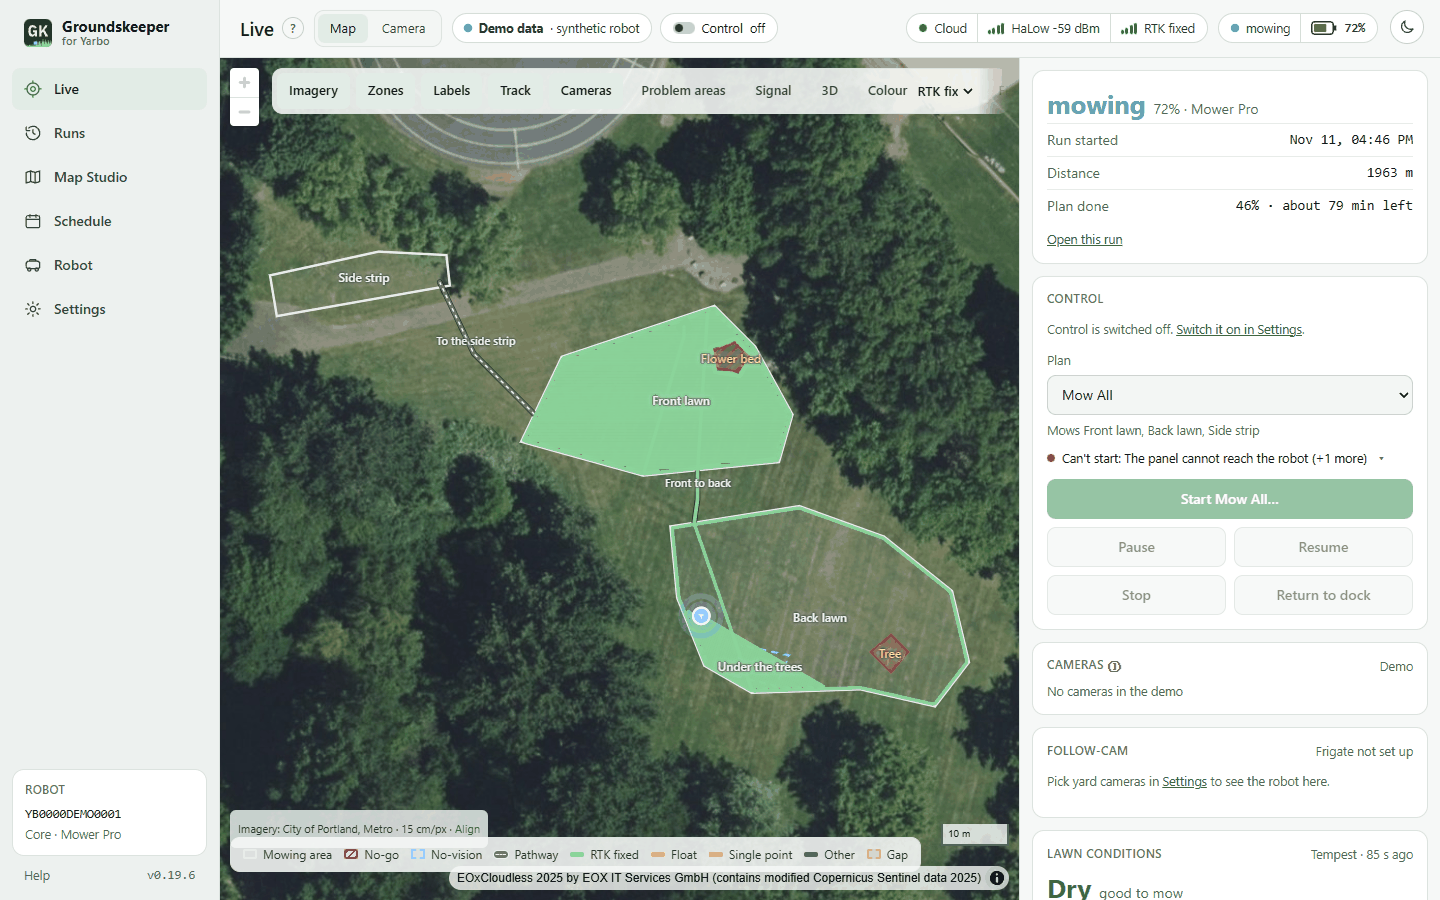
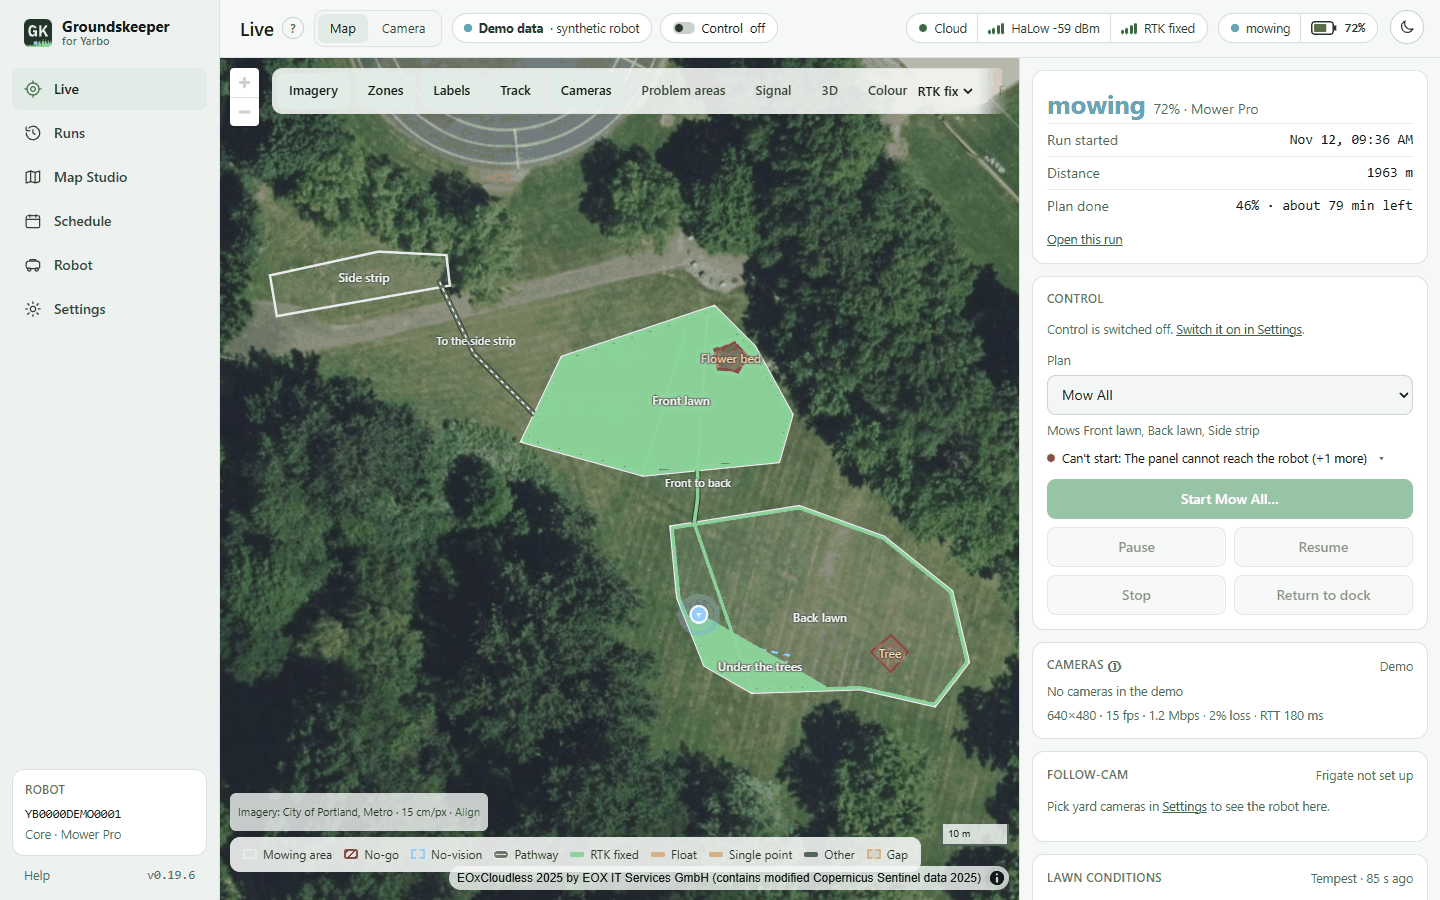
Cameras: a video stats line under the tile, read in the browser (#142)
One line under the Cameras tile's video, refreshed every 2 seconds while it
plays, for example "640×480 · 15 fps · 1.2 Mbps · 2% loss · RTT 180 ms". It
comes from the Agora SDK's own local counters (getRemoteVideoStats,
getRemoteNetworkQuality, getRTCStats); nothing is sent anywhere and no id,
token or channel name can get into it.

It says "weak link" (5% or more loss, frozen 10% of the time, or the SDK rates
the robot's upload poor) or "slow to draw" (frames arrive but this browser
shows far fewer), so a weak robot uplink can be told from a slow browser. The
demo shows a made-up line. The timer stops on every way the tile stops.

diff --git a/web/cameras.js b/web/cameras.js
@@ -34,12 +34,20 @@ const CAM_ROBOT_UID = 1;                           // the robot publishes as uid
 const CAM_SLOW_MS = 15000;                         // joined but no video yet: say why it may be
 const CAM_SETTINGS_MS = 20000;                     // how long a read of the video setting is trusted
 const CAM_SDK_TIMEOUT_MS = 20000;                  // a script load that hangs gives up, so the next try loads again
+const CAM_STATS_MS = 2000;                         // how often the stats line under the video is refreshed
 const CAM_BEAT_MS = 4000;                          // the official app keeps the robot awake about this often while open
 const CAM_JOIN_TIMEOUT_MS = 30000;                 // a join that never settles gives up, so the swap cannot linger
 // After leaving a channel the tile was watching, wait this long before camera-on and the next join: the robot stops
 // its video a moment after the last viewer leaves, and a camera-on sent straight away was lost to that (a camera
 // change then waited for video for good; with 3 s it played within seconds).
 const CAM_REJOIN_GAP_MS = 3000;
+// "Weak link" thresholds, on the SDK's own numbers (4.24.9): packetLossRate and freezeRate are ratios 0..1, and the
+// network quality is 0 (unknown) to 6 (down), where 4 is "poor". getRemoteNetworkQuality()[uid] describes that remote
+// user's own connection, so for the robot its uplink is the video's source link; its downlink is irrelevant to viewing.
+const CAM_WEAK_LOSS = 0.05;                        // 5% of the robot's packets lost
+const CAM_WEAK_FREEZE = 0.1;                       // frozen for 10% of the time
+const CAM_WEAK_QUALITY = 4;                        // the robot's uplink network quality "poor" or worse
+const CAM_SLOW_DRAW = 0.7;                         // drawn frames under 70% of received ones: the browser, not the link
 const CAM_CONTROL_OFF_HINT = "Control is off.";                // short on screen; CAM_HELP says the rest
 const CAM_ENDED = "Stopped. Open to watch again.";             // the panel's time limit, or the robot went offline
 // STOPGAP (AgoraIO/agora-rtc-web#15). The Web SDK wraps the stream's secret with a built-in 1024-bit RSA key, which
@@ -60,7 +68,8 @@ const CAM_SDK_OFF = [
 ];
 
 const cams = { open: false, camera: savedCamera(), phase: "closed", message: "", hint: "", client: null, ticket: 0,
-               slowTimer: null, beatTimer: null, controlOff: false, leaving: Promise.resolve(), settings: null,
+               slowTimer: null, beatTimer: null, statsTimer: null, stats: "", statsWeak: false, statsEl: null,
+               controlOff: false, leaving: Promise.resolve(), settings: null,
                settingsAt: 0, card: null, stage: null, sdk: null, subscribed: 0, leftAt: 0 };
 
 // The hints on screen are short; what each one means is its tooltip (and docs/user/live.md).
@@ -104,6 +113,10 @@ async function camerasCard(s) {
   if (!cams.card) {
     cams.stage = h("div", { class: "camsstage", role: "img", "aria-label": "Live view from the robot's camera" });
     cams.card = h("div", { class: "card camscard" });
+    cams.statsEl = h("p", { class: "small muted camstats", style: "margin:6px 0 0",
+      title: "Measured in this browser from the video library's own counters. Nothing is sent anywhere." });
+    const demo = CAM_DEMO_STATS;
+    camerasStatsShow(cams.demo ? camerasStatsLine(demo.video, demo.rtc, demo.quality) : { text: "", weak: false });
   }
   camerasDraw();
   return cams.card;
@@ -123,9 +136,10 @@ function camerasDraw() {
           "through Yarbo's cloud and Agora's network, one at a time, and only while this is open." }, "ⓘ")),
       cams.demo ? h("span", { class: "small muted" }, "Demo")
                 : h("span", { class: "small", style: `color:${colour}` }, dot(colour), " ", label)),
-    cams.demo ? h("p", { class: "muted small", style: "margin:6px 0 0",
-                         title: "The demo robot has no cameras. A real robot shows its video here." },
-                  "No cameras in the demo")
+    cams.demo ? [h("p", { class: "muted small", style: "margin:6px 0 0",
+                          title: "The demo robot has no cameras. A real robot shows its video here." },
+                   "No cameras in the demo"),
+                 cams.statsEl]
     : cams.open ? [
       h("div", { class: "camchips", role: "group", "aria-label": "Robot camera" },
         CAM_CHOICES.map(([k, name]) => h("button", { type: "button", class: `btn slim${cams.camera === k ? " on" : ""}`,
@@ -134,6 +148,7 @@ function camerasDraw() {
         h("button", { type: "button", class: "btn slim", title: "Stop the video and leave the channel",
           onclick: () => camerasStop() }, "Close")),
       cams.stage,
+      cams.statsEl,
       cams.message ? h("p", { class: "small", style: `margin:6px 0 0;color:${colour}`, role: "status" },
                        cams.message) : null,
       cams.hint ? h("p", { class: "muted small", style: "margin:4px 0 0", title: CAM_HELP[cams.hint] || null },
@@ -145,6 +160,70 @@ function camerasDraw() {
         h("button", { type: "button", class: "btn slim", onclick: () => camerasOpen(),
           title: "Switch the robot's cameras on and show one here. Needs Control on." }, "Open")),
       cams.message ? h("p", { class: "muted small", style: "margin:6px 0 0", role: "status" }, cams.message) : null]);
+}
+
+// Made-up numbers for the demo, which never loads the SDK: it shows what the line looks like on a real robot.
+const CAM_DEMO_STATS = { video: { receiveResolutionWidth: 640, receiveResolutionHeight: 480, renderFrameRate: 15,
+                                  receiveFrameRate: 15, receiveBitrate: 1234000, packetLossRate: 0.02, freezeRate: 0,
+                                  totalFreezeTime: 0, end2EndDelay: 0 },
+                         rtc: { RTT: 180 }, quality: { uplinkNetworkQuality: 2 } };
+
+// The line under the video, from the SDK's local counters (read by camerasStatsStart). Returns { text, weak }; text
+// is "" when there are no numbers yet. Only numbers are used: no ids, names, tokens or addresses can get in.
+function camerasStatsLine(video, rtc, quality) {
+  const num = (v) => (typeof v === "number" && Number.isFinite(v) ? v : 0);
+  const v = video || {};
+  const w = num(v.receiveResolutionWidth), ht = num(v.receiveResolutionHeight);
+  const bps = num(v.receiveBitrate), loss = num(v.packetLossRate);
+  const freezeRate = num(v.freezeRate), froze = num(v.totalFreezeTime);
+  const received = num(v.receiveFrameRate);
+  // A real 0 stays 0: a stalled renderer is not masked by the receive rate. Only a missing counter falls back.
+  const drawn = typeof v.renderFrameRate === "number" && Number.isFinite(v.renderFrameRate)
+    ? v.renderFrameRate : received;
+  const rtt = num(rtc && rtc.RTT), delay = num(v.end2EndDelay);
+  if (!w && !bps && !drawn) return { text: "", weak: false };      // nothing received yet
+  const weak = loss >= CAM_WEAK_LOSS || freezeRate >= CAM_WEAK_FREEZE
+    || num(quality && quality.uplinkNetworkQuality) >= CAM_WEAK_QUALITY;
+  const slow = !weak && received >= 5 && drawn < received * CAM_SLOW_DRAW;
+  const pct = loss * 100;
+  const parts = [
+    w && ht ? `${Math.round(w)}×${Math.round(ht)}` : "",
+    `${Math.round(drawn)} fps`,
+    bps >= 1e6 ? `${(bps / 1e6).toFixed(1)} Mbps` : `${Math.round(bps / 1e3)} kbps`,
+    pct > 0 && pct < 1 ? "<1% loss" : `${Math.round(pct)}% loss`,
+    rtt > 0 ? `RTT ${Math.round(rtt)} ms` : "",
+    delay > 0 ? `delay ${Math.round(delay)} ms` : "",
+    froze >= 1 ? `froze ${Math.round(froze)} s` : "",
+    // weak link: the robot's side or the network; slow to draw: this browser
+    weak ? "weak link" : slow ? "slow to draw" : ""];
+  return { text: parts.filter(Boolean).join(" · "), weak };
+}
+
+// Puts the line on the tile. It updates the one paragraph in place (no redraw), so the playing video is not touched.
+function camerasStatsShow({ text, weak }) {
+  cams.stats = text;
+  cams.statsWeak = weak;
+  if (!cams.statsEl) return;
+  cams.statsEl.textContent = text;
+  cams.statsEl.hidden = !text;
+  cams.statsEl.className = `small muted camstats${weak ? " weak" : ""}`;
+}
+
+const camerasStatsClear = () => camerasStatsShow({ text: "", weak: false });
+
+// Reads the SDK's local counters for the robot, every CAM_STATS_MS while its video plays. Nothing is sent anywhere. A
+// read that throws shows nothing and logs nothing.
+function camerasStatsStart(client, ticket) {
+  clearInterval(cams.statsTimer);
+  const read = () => {
+    if (ticket !== cams.ticket || !cams.open || cams.client !== client) return;
+    try {
+      const video = (client.getRemoteVideoStats() || {})[CAM_ROBOT_UID];
+      const quality = (client.getRemoteNetworkQuality() || {})[CAM_ROBOT_UID];
+      camerasStatsShow(camerasStatsLine(video, client.getRTCStats(), quality));
+    } catch { camerasStatsClear(); }
+  };
+  cams.statsTimer = setInterval(read, CAM_STATS_MS);
 }
 
 function camerasSet(phase, message, hint) {
@@ -180,6 +259,9 @@ function camerasLeave() {
   clearTimeout(cams.slowTimer);
   clearInterval(cams.beatTimer);                    // no more keep-awake beats, on every way of stopping
   cams.beatTimer = null;
+  clearInterval(cams.statsTimer);                   // and no more stats reads
+  cams.statsTimer = null;
+  camerasStatsClear();
   cams.controlOff = false;
   if (camSwapRemove) camSwapRemove();               // the secret swap lives as long as the client
   const client = cams.client;
@@ -524,6 +606,9 @@ function camerasListen(client, ticket) {
   client.on("user-unpublished", (user, mediaType) => {
     if (live() && Number(user.uid) === CAM_ROBOT_UID && mediaType === "video") {   // not the robot's audio stopping
       cams.subscribed = 0;                        // a later user-published subscribes again
+      clearInterval(cams.statsTimer);
+      cams.statsTimer = null;
+      camerasStatsClear();
       if (cams.stage) cams.stage.replaceChildren();
       camerasSet("waiting", "The robot stopped sending video.", "Cameras off, or asleep.");
     }
@@ -551,6 +636,7 @@ async function camerasPlay(client, user, mediaType, ticket) {
   if (ticket !== cams.ticket || !cams.open || !user.videoTrack) return;
   clearTimeout(cams.slowTimer);
   user.videoTrack.play(cams.stage, { fit: "contain" });
+  camerasStatsStart(client, ticket);
   camerasSet("playing", "");
 }
 

diff --git a/web/style.css b/web/style.css
@@ -282,6 +282,8 @@ a { color: var(--link); }
 .camchips { display: flex; flex-wrap: wrap; gap: 6px; }
 /* Live's Cameras tile: the robot's own cameras. The stage keeps a 16:9 box whatever the video does. */
 .camscard .camchips { margin-top: 8px; }
+.camstats { font-variant-numeric: tabular-nums; }
+.camstats.weak { color: var(--warn); }
 .camsstage {
   margin-top: 8px; aspect-ratio: 16 / 9; width: 100%; border-radius: 8px; overflow: hidden; background: var(--map-ink);
 }

diff --git a/tests/test_cameras_js.py b/tests/test_cameras_js.py
@@ -369,7 +369,8 @@ def test_when_the_panel_ends_the_window_the_tile_closes_says_so_and_beats_no_mor
 @needs_node
 def test_changing_camera_restarts_the_beats_without_a_second_timer():
     seg = segment(run_flow(), "beats-pick", beats=True)
-    assert [c[0] for c in seg if c[0] in BEAT_CALLS] == ["clear-interval", "interval", "beat"]
+    # the second clear is the stats timer (#142), playing before the pick
+    assert [c[0] for c in seg if c[0] in BEAT_CALLS] == ["clear-interval", "clear-interval", "interval", "beat"]
     assert ["beat", '{"start":true}'] in seg                                    # picking a camera is a press too
     assert ["intervals", 1] in seg
 
@@ -567,3 +568,84 @@ def test_the_tile_joins_as_host_but_never_publishes_anything():
                  "createCustomAudioTrack", "createCustomVideoTrack", "createBufferSourceAudioTrack", "getUserMedia"):
         assert call not in CODE, call
 
+
+# --- Video stats under the tile (#142): the SDK's own local counters, read here, sent nowhere. ---
+
+def stats_lines(calls):
+    return {c[1]: (c[2], c[3]) for c in calls if c[0] == "stats"}
+
+
+@needs_node
+def test_the_stats_line_formats_the_sdks_counters():
+    lines = stats_lines(run_flow())
+    assert lines["healthy"] == ("640×480 · 15 fps · 1.2 Mbps · 2% loss · RTT 180 ms", False)
+    assert lines["delay"][0].endswith("RTT 180 ms · delay 320 ms")
+    assert lines["kbps"][0] == "640×480 · 15 fps · 640 kbps · <1% loss · RTT 180 ms"
+    assert lines["no-rtt"][0] == "640×480 · 15 fps · 1.2 Mbps · 2% loss"
+
+
+@needs_node
+def test_a_weak_link_is_said_when_loss_freezes_or_the_quality_is_poor():
+    lines = stats_lines(run_flow())
+    assert lines["loss"] == ("640×480 · 15 fps · 1.2 Mbps · 8% loss · RTT 180 ms · weak link", True)
+    assert lines["freeze"] == (
+        "640×480 · 15 fps · 1.2 Mbps · 2% loss · RTT 180 ms · froze 6 s · weak link", True)
+    assert lines["quality"] == ("640×480 · 15 fps · 1.2 Mbps · 2% loss · RTT 180 ms · weak link", True)
+    # only the robot's uplink counts
+    assert lines["downlink-ignored"] == ("640×480 · 15 fps · 1.2 Mbps · 2% loss · RTT 180 ms", False)
+    # 0 means unknown, not poor
+    assert lines["quality-unknown"][1] is False and "weak" not in lines["quality-unknown"][0]
+
+
+@needs_node
+def test_a_slow_browser_is_told_apart_from_a_weak_link():
+    text, weak = stats_lines(run_flow())["slow-browser"]
+    assert text.endswith("slow to draw") and "weak link" not in text and weak is False
+    stalled = stats_lines(run_flow())["render-stalled"]
+    # a stalled renderer is not masked
+    assert stalled == ("640×480 · 0 fps · 1.2 Mbps · 2% loss · RTT 180 ms · slow to draw", False)
+    # no render counter: use the receive rate
+    assert stats_lines(run_flow())["render-missing"][0].startswith("640×480 · 12 fps")
+
+
+@needs_node
+def test_no_numbers_means_no_line_and_a_throwing_sdk_is_quiet():
+    calls = run_flow()
+    assert next(c for c in calls if c[0] == "stats-before") == ["stats-before", ""]
+    lines = stats_lines(calls)
+    for name in ("nothing-yet", "no-user", "bad-numbers", "throws"):
+        assert lines[name] == ("", False), name
+
+
+@needs_node
+def test_the_stats_line_never_carries_a_secret_channel_or_uid():
+    calls = run_flow()
+    assert next(c for c in calls if c[0] == "stats-line-secret-free")[1] is True
+    assert not re.search(r"console\.", CODE)
+
+
+@needs_node
+def test_the_stats_timer_stops_on_every_way_of_stopping():
+    stopped = [c for c in run_flow() if c[0] == "stats-stopped"]
+    assert [c[1] for c in stopped] == [
+        "close", "hidden", "pagehide", "leave-live", "connection-lost", "robot-stops-video"]
+    for _, name, shown, after, reads, timers in stopped:
+        assert shown.startswith("640×480") and after == "" and reads == 0, name
+        # robot-stops-video stays open: the keep-awake beat goes on
+        assert timers == (1 if name == "robot-stops-video" else 0), name
+
+
+@needs_node
+def test_changing_camera_clears_the_line_and_never_doubles_the_timer():
+    calls = run_flow()
+    # only the keep-awake beat is left
+    assert next(c for c in calls if c[0] == "stats-after-pick") == ["stats-after-pick", "", 1]
+    # beat + one stats timer
+    assert next(c for c in calls if c[0] == "stats-timers") == ["stats-timers", 2]
+
+
+def test_the_stats_source_reads_only_local_sdk_counters_every_two_seconds():
+    assert "CAM_STATS_MS = 2000" in CODE
+    for call in ("getRemoteVideoStats", "getRTCStats", "getRemoteNetworkQuality"):
+        assert CODE.count(f".{call}(") == 1
+    assert re.search(r"function camerasLeave\(\) \{[^}]*clearInterval\(cams\.statsTimer\)", CODE, re.S)

diff --git a/docs/user/live.md b/docs/user/live.md
@@ -93,7 +93,12 @@ are pink, edge passes violet.
     message and access-point request itself, on the SDK's own connections to Agora only, unwrapped inside TLS to
     Agora, whose servers decrypt the stream for your browser anyway. A stopgap until Agora fixes their SDK
     (AgoraIO/agora-rtc-web#15).
-  - The demo shows a placeholder: "No cameras in the demo".
+  - Under the video, one line shows what this browser is receiving, refreshed every 2 seconds, for example
+    `640×480 · 15 fps · 1.2 Mbps · 2% loss · RTT 180 ms`. It is read from the video library's own counters in your
+    browser and sent nowhere. **weak link** means 5% or more of the packets were lost, the picture froze for 10% of
+    the time, or the library rates the robot's upload poor: look at the robot's signal (HaLow, 4G) first. **slow to
+    draw** means frames arrive but this browser shows far fewer: try another tab or device.
+  - The demo shows a placeholder, "No cameras in the demo", with a made-up example line.
   - It has played the back camera during a run while the Yarbo app was also open. **Known limitations**, from one
     robot so far:
     - Waking a docked, sleeping robot is not shown to work: with the Yarbo app closed, no video arrived within about

diff --git a/CHANGELOG.md b/CHANGELOG.md
@@ -7,6 +7,11 @@ robot card. Before 0.9.0 the panel had no version numbers; those changes are lis
 
 ### Added
 
+- **A stats line under the Cameras tile's video** (#142), refreshed every 2 seconds while it plays, for example
+  `640×480 · 15 fps · 1.2 Mbps · 2% loss · RTT 180 ms`. It comes from the video library's own counters in your
+  browser and nothing is sent anywhere. It says **weak link** when loss is 5% or more, the picture froze for 10% of
+  the time or the library rates the robot's upload poor, and **slow to draw** when this browser shows far fewer
+  frames than arrive. The demo shows a made-up line.
 - **Pre-release images for testing** (`ghcr.io/groundskeeper-robot/groundskeeper-dev`): `:edge` after every merge
   and `:nightly` once a night, in their own package so they never replace `:latest` or a release. Settings → This
   panel shows the channel beside the version, for example `0.19.7 · nightly · 1a756d0`. See the README.
